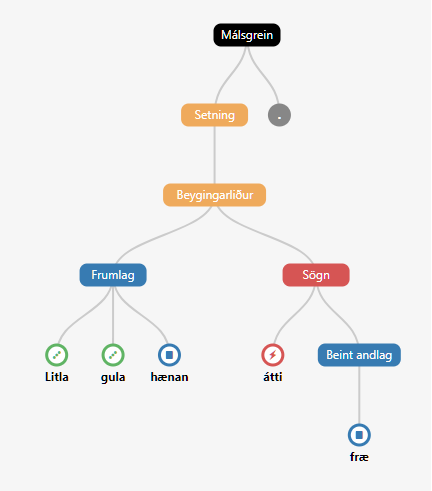
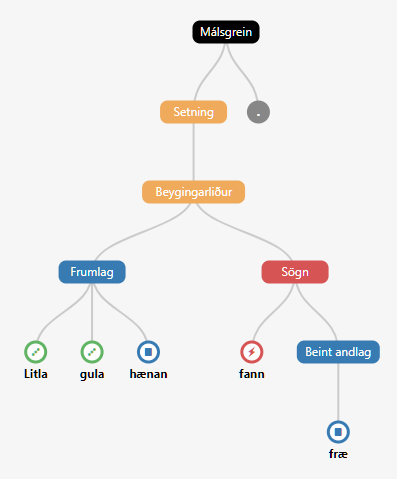
Got the story right about 'litla gula hænan'

diff --git a/doc/conf.py b/doc/conf.py
@@ -58,7 +58,7 @@ author = u'Miðeind ehf.'
 # The short X.Y version.
 version = '1.0'
 # The full version, including alpha/beta/rc tags.
-release = '1.0.0'
+release = '1.0.4'
 
 # The language for content autogenerated by Sphinx. Refer to documentation
 # for a list of supported languages.

diff --git a/doc/reference.rst b/doc/reference.rst
@@ -88,7 +88,7 @@ The Reynir class
 
             from reynir import Reynir
             r = Reynir()
-            my_text = "Litla gula hænan átti fræ. Það var hveitifræ."
+            my_text = "Litla gula hænan fann fræ. Það var hveitifræ."
             d = r.parse(my_text)
             print("{0} sentences were parsed".format(d["num_parsed"]))
             for sent in d["sentences"]:
@@ -116,14 +116,14 @@ The Reynir class
 
             from reynir import Reynir
             r = Reynir()
-            my_text = "Litla gula hænan átti fræ"
+            my_text = "Litla gula hænan fann fræ"
             sent = r.parse_single(my_text)
             print("The parse tree for '{0}' is:\n{1}"
                 .format(sent.tidy_text, sent.tree.view))
 
         Output::
 
-            The parse tree for 'Litla gula hænan átti fræ' is:
+            The parse tree for 'Litla gula hænan fann fræ' is:
             P
             +-S-MAIN
               +-IP
@@ -132,7 +132,7 @@ The Reynir class
                   +-lo_nf_et_kvk: 'gula'
                   +-no_et_nf_kvk: 'hænan'
                 +-VP
-                  +-so_1_þf_et_p3: 'átti'
+                  +-so_1_þf_et_p3: 'fann'
                   +-NP-OBJ
                     +-no_et_þf_hk: 'fræ'
 

diff --git a/doc/quickstart.rst b/doc/quickstart.rst
@@ -11,7 +11,7 @@ After :ref:`installing Reynir <installation>`, fire up your Python 3 interpreter
 
     from reynir import Reynir
 
-    my_text = "Litla gula hænan átti fræ. Það var hveitifræ."
+    my_text = "Litla gula hænan fann fræ. Það var hveitifræ."
 
     # Initialize Reynir and submit the text as a parse job
     r = Reynir()
@@ -26,8 +26,8 @@ After :ref:`installing Reynir <installation>`, fire up your Python 3 interpreter
 
 The output of the program is as follows::
 
-    Sentence: Litla gula hænan átti fræ.
-    Lemmas:   ['lítill', 'gulur', 'hæna', 'eiga', 'fræ', '.']
+    Sentence: Litla gula hænan fann fræ.
+    Lemmas:   ['lítill', 'gulur', 'hæna', 'finna', 'fræ', '.']
     Parse tree:
     P
     +-S-MAIN
@@ -37,11 +37,10 @@ The output of the program is as follows::
           +-lo_nf_et_kvk: 'gula'
           +-no_et_nf_kvk: 'hænan'
         +-VP
-          +-so_1_þf_et_p3: 'átti'
+          +-so_1_þf_et_p3: 'fann'
           +-NP-OBJ
             +-no_et_þf_hk: 'fræ'
     +-'.'
-
     Sentence: Það var hveitifræ.
     Lemmas:   ['það', 'vera', 'hveitifræ', '.']
     Parse tree:

diff --git a/doc/overview.rst b/doc/overview.rst
@@ -15,7 +15,7 @@ correspond to leaves in the parse tree.
     :align: center
     :alt: A parse tree
 
-    *The parse tree for the sentence "Litla gula hænan átti fræ".*
+    *The parse tree for the sentence "Litla gula hænan fann fræ".*
 
 By examining and processing the parse tree, information and meaning
 can be extracted from the sentence.
@@ -76,7 +76,7 @@ that can validly describe the sentence according to the grammar rules. Reynir th
 to choose a single best tree from the forest of possible trees. It does this with a scoring
 heuristic which assigns higher scores to common word forms and grammatical constructs, and lower
 scores to rare word forms and uncommon constructs. The parse tree with the highest overall
-score wins and is returned from the ``parse()`` function.
+score wins and is returned from the :py:meth:`Reynir.parse_single()` function.
 
 Once the best parse tree has been found, it is available for various kinds of **queries**.
 You can access word lemmas, extract noun and verb phrases as shown above, look for
